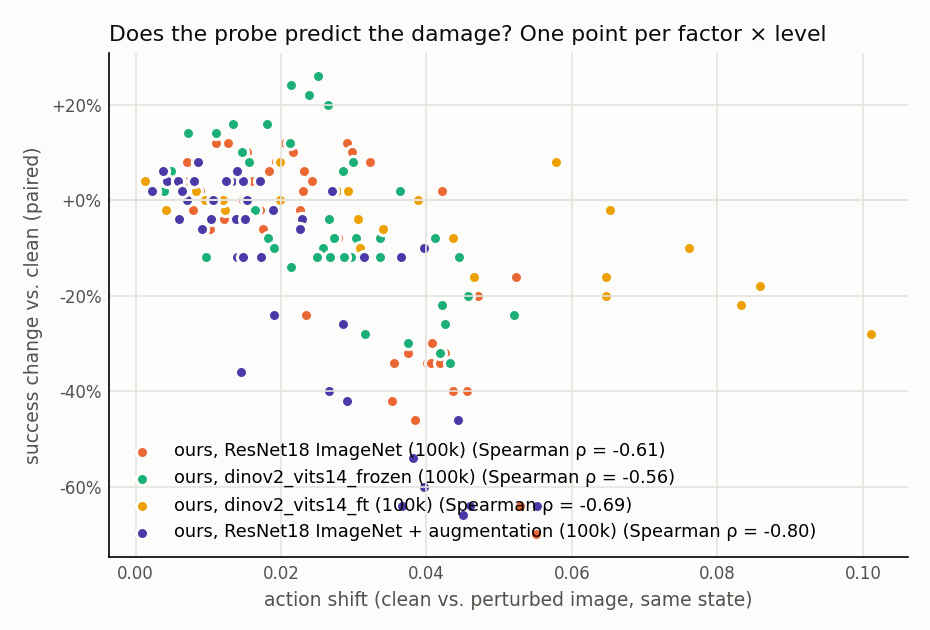
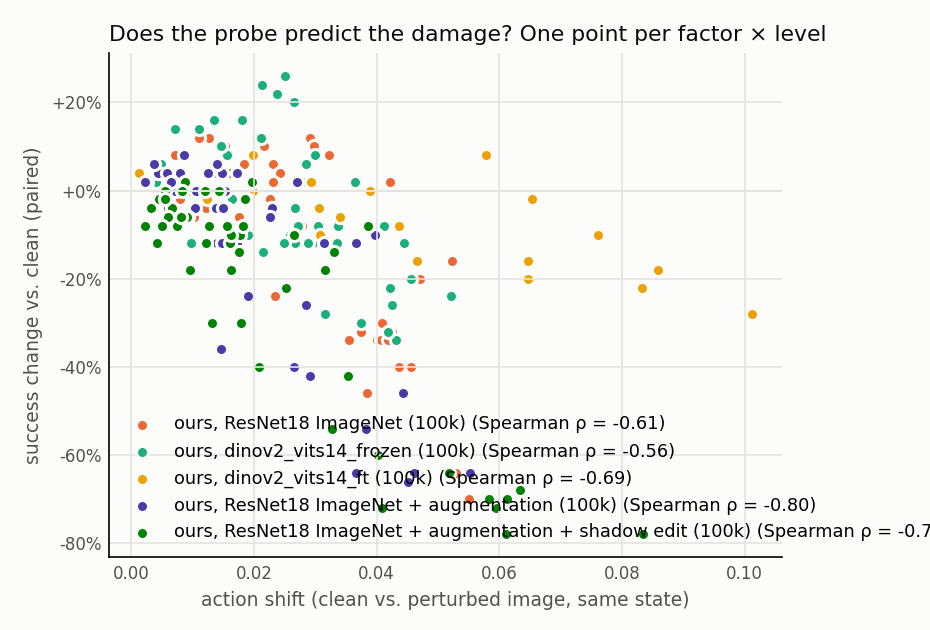
Step 3b outcome: shadow edit did not reduce the shadow dependence
Run B 78.2 % clean (better than run A, p = 0.017; level with the baseline).
Shadows off 12 % retained (predicted >= 50 %), light direction unchanged;
blur / camera gains kept. Probe: encoder slightly less shadow-sensitive, but
the actions react more strongly (0.059). Two readings and the run that
separates them (shadow-free re-rendered demos) written down.

diff --git a/README.md b/README.md
@@ -26,6 +26,10 @@ with purely visual perturbations, and works out **what each policy actually reli
 5. **Standard augmentation is not a free fix.** LeRobot's image augmentation (color jitter, sharpness, small affine)
    made the baseline robust to blur and camera shifts at no significant clean cost, but its shadow dependence got much
    worse (shadows off: 51 % → 9 % of clean success retained) and distractors became a new weakness.
+6. **Editing the shadows in the training images did not remove the dependence (pre-registered, failed).** Our own
+   shadow augmentation (detect, remove, move and stretch the shadows; validated against simulation ground truth, IoU 0.92)
+   kept run A's gains and the baseline's clean rate (78.2 %), but shadows off still leaves 12 % of clean success
+   (predicted: ≥ 50 %), and the probe shows the actions react to missing shadows even more strongly than before.
 
 ![Success retained relative to each policy's clean rate (same seeds), per perturbation and severity](results/robustness_curves_relative.png)
 
@@ -36,6 +40,7 @@ with purely visual perturbations, and works out **what each policy actually reli
 | ACT, DINOv2 ViT-S/14, frozen | 45.8 % | 20.2 % | distractors, background, camera pose, shadows | blur, color, lighting |
 | ACT, DINOv2 ViT-S/14, finetuned | 32.8 % | 35.2 % | brightness, light / table color, camera pose | noise, distractors, shadows |
 | ACT, ResNet18, finetuned **+ image augmentation** | 73.4 % | 0.4 % | shadows / light direction (stronger), noise, JPEG, distractors | blur, camera pose, color, background |
+| ACT, ResNet18, finetuned **+ image augmentation + shadow edit** | 78.2 % | 0.2 % | shadows / light direction (unchanged), noise, JPEG, distractors | blur, camera pose, color, background |
 | ACT, DINOv2 ViT-S/14 at 2× resolution, frozen | *paused at 16k steps* | | | |
 
 <table>
@@ -68,7 +73,7 @@ gripper; frozen DINOv2 (bottom) depends on the whole table and background.*
 |---|---|---|
 | 1 · Baseline | Reproduce ACT on `AlohaTransferCube-v0` (pretrained checkpoint + own training) | ✅ |
 | 2 · Analysis | Perturbation suite + shadow diagnostics ✅; encoders: DINOv2 frozen ✅, finetuned ✅, 2× resolution 🚧, ResNet18 from scratch / CLIP / SigLIP ⏳; replay probe + occlusion maps ✅ | 🚧 |
-| 3 · Method | Targeted modification derived from the analysis: (A) standard image augmentation ✅, (B) shadow augmentation 🚧 (validated, training) | 🚧 |
+| 3 · Method | Targeted modification derived from the analysis: (A) standard image augmentation ✅, (B) shadow augmentation ✅ (prediction failed); (C) training on re-rendered shadow-free demos ⏳ | 🚧 |
 
 ## Detailed results
 
@@ -425,6 +430,56 @@ distractors 66 / 49 % (levels 3 / 4).
 If 2 fails, the faint outlines left by the removal, or the shadows in the unedited half of the frames, are enough for
 the policy to keep using them; the occlusion maps and the replay probe (notebook 04) would then show whether the
 policy still looks at the shadow regions.
+
+#### Outcome: no less shadow dependence, and the actions react to shadows even more strongly
+
+Trained on Kaggle (T4, 0.32 s/step, the shadow edit costs ~3 % speed). Clean: **78.2 %** (95 % CI 74.4–81.6 %). Paired
+on the same 500 seeds: better than run A (only A succeeds in 35 episodes, only B in 59, p = 0.017), level with the
+baseline (66 vs. 70, p = 0.8). Suite, success retained relative to clean on the same seeds (run B: 80 % clean on seeds
+1000–1049):
+
+| Prediction | Target | Run A | **Run B** | |
+|---|---|---|---|---|
+| 1 · clean success | within ±5 points of 73.4 % | 73.4 % | 78.2 % | ✅ (at the edge; better than A, p = 0.017) |
+| 2 · **shadows off** | ≥ 50 %, significant vs. A | 9 % | **12 %** (5 / 50, p_Holm = 2.5e-8) | ❌ |
+| 3 · light direction, levels 3 / 4 | ≥ 40 % | 14 / 9 % | **20 / 10 %** (levels 1–4: 50 / 25 / 20 / 10 %) | ❌ |
+| 4 · rotation without shadows ≈ shadows off | same dependence | 9 / 9 / 9 / 6 % | 10 / 12 / 15 / 12 % | ✅ (both unchanged) |
+| 5 · blur level 4, camera pose levels 3 / 4 | ≥ 75 % | 83 / 83 / 86 % | 90 / 82 / 77 % | ✅ |
+| distractors, levels 3 / 4 | (no prediction) | 66 / 49 % | 62 / 62 % | |
+
+The main prediction failed clearly: editing the shadows in the training images did **not** reduce the policy's
+dependence on them. Run A's gains (blur, camera pose) are kept and the clean rate recovered to the baseline's, but
+with one training seed per run (baseline vs. reference checkpoint, same recipe: 6 points apart) the clean gain over A
+is not evidence that the edit helps.
+
+**Probe** (as for run A, unchanged):
+
+| feature → action shift | Baseline | Run A | **Run B** |
+|---|---|---|---|
+| shadows off | 0.135 → 0.040 | 0.176 → 0.045 | 0.152 → **0.059** |
+| light direction, level 3 | 0.138 → 0.038 | 0.170 → 0.040 | 0.151 → **0.052** |
+| blur, level 4 | 0.326 → 0.053 | 0.289 → 0.037 | 0.251 → 0.039 |
+| camera pose, level 4 | 0.394 → 0.052 | 0.395 → 0.040 | 0.360 → 0.032 |
+
+The edit made the encoder slightly *less* sensitive to shadows (feature shift 0.176 → 0.152), but the predicted actions
+react *more* strongly when they are gone: shadows off now moves run B's actions more than any other policy's, and more
+than any of its other perturbations except the strongest noise and JPEG levels. The probe again ranks the damage
+(Spearman ρ = −0.75 for the action shift, −0.40 for the feature shift). In the occlusion map, run B's sensitivity with
+shadows off concentrates on the empty table in front of the gripper, where its shadow would normally be (one seed,
+qualitative only).
+
+![Occlusion sensitivity of the shadow-edited policy](results/occlusion_resnet18_shadowaug.png)
+
+**Our reading** (not tested yet). The edit mostly *weakened* shadows instead of removing them: only a quarter of the
+frames had them removed, at 60–100 % strength, and even full strength leaves about a third of the contrast and the
+outlines at the edges (see validation). Training on faint shadows may have taught the policy to pick up weak shadow
+signals rather than to do without them, so "no shadows at all" stayed out of distribution. The alternative is that
+for this policy the shadow is the height signal it needs, not a shortcut: the failures with shadows off are mostly
+missed grasps (38 %) or never touching the cube (24 %), which fits a missing height cue, although the arm's joint
+angles carry the same information. The two readings make different predictions for one more run: training on
+demonstrations **re-rendered without shadows** (possible in simulation, because the recorded states can be replayed)
+removes the first explanation. If shadows off still fails after that, the policy needs the shadow; if not, our
+image-space edit was simply not strong enough.
 
 ## Perturbation suite
 
